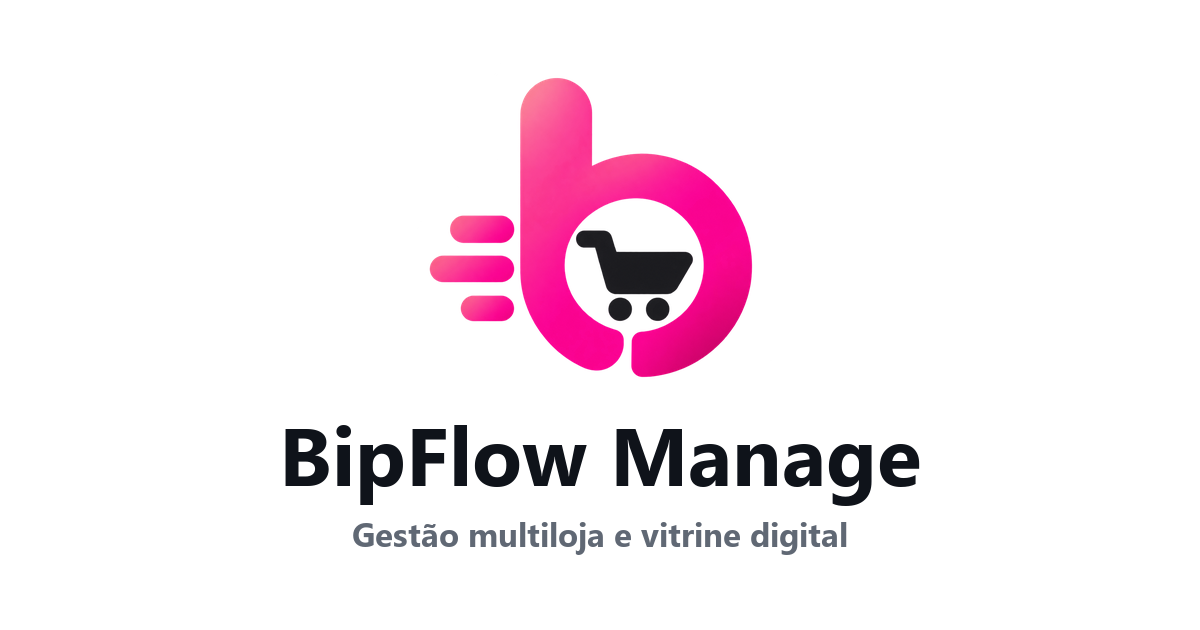
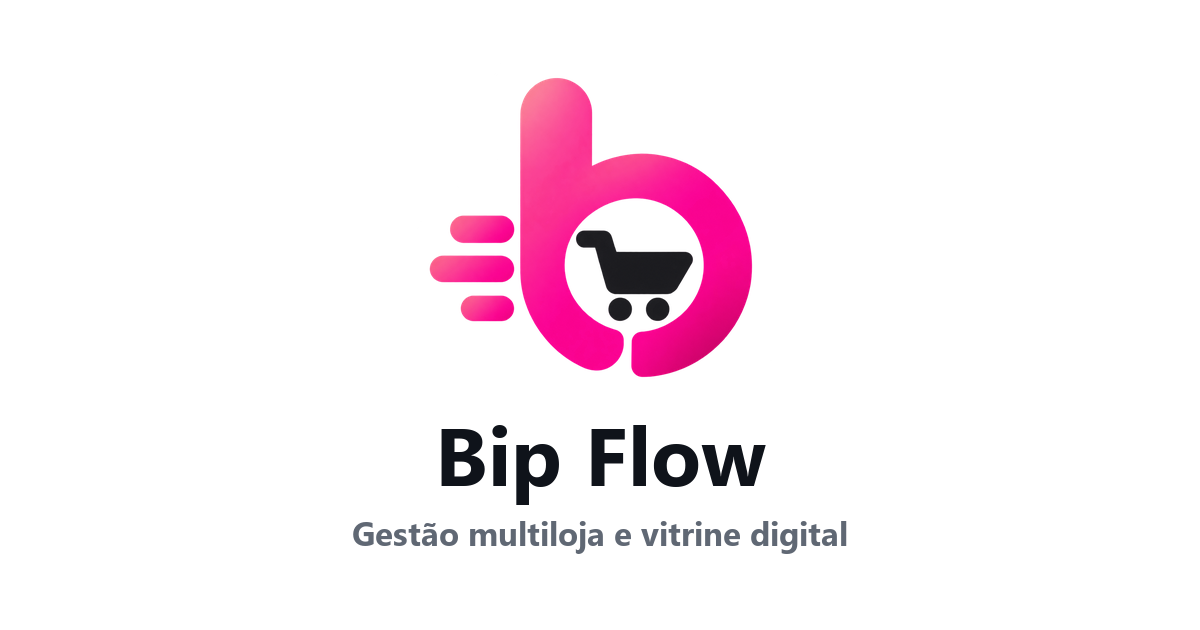
chore(brand): rename admin product identity to Bip Flow
The platform is "Bip Flow"; the retired "BipFlow Manage" wordmark is
replaced across every user-facing surface of the SaaS:

- index.html <title>, Open Graph / Twitter card, application-name and
  apple-mobile-web-app-title
- router document.title (dynamic tab title + fallback)
- auth shell wordmark + aria-label, login / reset CTAs, customer-login
  wordmark, 404 / 500 brand lines
- site.webmanifest name / short_name
- brand OG share card: WORDMARK -> "Bip Flow" and bipflow-og.png
  regenerated (symbol, gradient and geometry untouched)

Canonical URLs still point at bipflow-manage.pages.dev; the URL cutover
lands separately once bipflow.pages.dev is live. Tenant branding
(Boutique Fitness et al.) is untouched — a tenant is never the platform
brand. social-metadata / AuthComponents / auth-ui-states specs updated,
plus a regression guard that the crawler-visible <head> never carries
"Manage".

diff --git a/bipflow-frontend/index.html b/bipflow-frontend/index.html
@@ -4,14 +4,14 @@
     <meta charset="UTF-8">
     <meta name="viewport" content="width=device-width, initial-scale=1.0, viewport-fit=cover">
 
-    <title>BipFlow Manage — Gestão multiloja e vitrine digital</title>
+    <title>Bip Flow — Gestão multiloja e vitrine digital</title>
     <meta name="description" content="Plataforma SaaS multi-tenant para gestão de lojas, produtos, estoque e pedidos, com vitrine digital, PDV, checkout por WhatsApp e segurança avançada.">
     <link rel="canonical" href="https://bipflow-manage.pages.dev/">
 
     <!-- Open Graph / LinkedIn / Facebook -->
     <meta property="og:type" content="website">
-    <meta property="og:site_name" content="BipFlow Manage">
-    <meta property="og:title" content="BipFlow Manage — Gestão multiloja e vitrine digital">
+    <meta property="og:site_name" content="Bip Flow">
+    <meta property="og:title" content="Bip Flow — Gestão multiloja e vitrine digital">
     <meta property="og:description" content="Plataforma SaaS multi-tenant para gestão de lojas, produtos, estoque e pedidos, com vitrine digital, PDV, checkout por WhatsApp e segurança avançada.">
     <meta property="og:url" content="https://bipflow-manage.pages.dev/">
     <meta property="og:image" content="https://bipflow-manage.pages.dev/brand/bipflow-og.png">
@@ -19,15 +19,15 @@
     <meta property="og:image:type" content="image/png">
     <meta property="og:image:width" content="1200">
     <meta property="og:image:height" content="630">
-    <meta property="og:image:alt" content="BipFlow Manage — gestão multiloja e vitrine digital">
+    <meta property="og:image:alt" content="Bip Flow — gestão multiloja e vitrine digital">
     <meta property="og:locale" content="pt_BR">
 
     <!-- Twitter / X -->
     <meta name="twitter:card" content="summary_large_image">
-    <meta name="twitter:title" content="BipFlow Manage — Gestão multiloja e vitrine digital">
+    <meta name="twitter:title" content="Bip Flow — Gestão multiloja e vitrine digital">
     <meta name="twitter:description" content="Plataforma SaaS multi-tenant para gestão de lojas, produtos, estoque e pedidos, com vitrine digital, PDV, checkout por WhatsApp e segurança avançada.">
     <meta name="twitter:image" content="https://bipflow-manage.pages.dev/brand/bipflow-og.png">
-    <meta name="twitter:image:alt" content="BipFlow Manage — gestão multiloja e vitrine digital">
+    <meta name="twitter:image:alt" content="Bip Flow — gestão multiloja e vitrine digital">
 
     <!-- Official BipFlow icons -->
     <link rel="icon" href="/favicon.ico" sizes="any">
@@ -36,8 +36,8 @@
     <link rel="apple-touch-icon" sizes="180x180" href="/brand/apple-touch-icon.png">
     <link rel="manifest" href="/site.webmanifest">
     <meta name="theme-color" content="#FB0190">
-    <meta name="application-name" content="BipFlow Manage">
-    <meta name="apple-mobile-web-app-title" content="BipFlow Manage">
+    <meta name="application-name" content="Bip Flow">
+    <meta name="apple-mobile-web-app-title" content="Bip Flow">
 
     <link rel="preconnect" href="https://fonts.googleapis.com">
     <link rel="preconnect" href="https://fonts.gstatic.com" crossorigin>

diff --git a/bipflow-frontend/src/__tests__/social-metadata.spec.ts b/bipflow-frontend/src/__tests__/social-metadata.spec.ts
@@ -44,10 +44,16 @@ function link(html: string, rel: string, extra = ''): string | null {
 }
 
 describe('social metadata — crawler-visible <head> in index.html', () => {
-  it('has a BipFlow Manage title and description (no stale store name)', () => {
+  it('has a Bip Flow title and description (platform brand, no stale store name, no "Manage")', () => {
     const title = indexHtml.match(/<title>([^<]*)<\/title>/i)?.[1] ?? ''
-    expect(title).toBe('BipFlow Manage — Gestão multiloja e vitrine digital')
+    expect(title).toBe('Bip Flow — Gestão multiloja e vitrine digital')
+    // Boutique Fitness is a tenant, never the platform brand in the global <head>.
     expect(indexHtml).not.toMatch(/KN Boutique|Boutique Fitness/)
+    // The product is "Bip Flow" now — the retired "BipFlow Manage" / "… Manage"
+    // wordmark must not survive anywhere in the crawler-visible document.
+    const head = indexHtml.slice(0, indexHtml.indexOf('</head>'))
+    expect(head).not.toMatch(/BipFlow Manage|Bip Flow Manage|\bManage\b/)
+    expect(head).toMatch(/Bip Flow/)
     expect(meta(indexHtml, 'name', 'description')).toBe(SOCIAL_DESCRIPTION)
   })
 
@@ -74,8 +80,8 @@ describe('social metadata — crawler-visible <head> in index.html', () => {
   it('declares every required Open Graph tag with absolute URLs', () => {
     const og = {
       'og:type': 'website',
-      'og:site_name': 'BipFlow Manage',
-      'og:title': 'BipFlow Manage — Gestão multiloja e vitrine digital',
+      'og:site_name': 'Bip Flow',
+      'og:title': 'Bip Flow — Gestão multiloja e vitrine digital',
       'og:description': SOCIAL_DESCRIPTION,
       'og:url': `${CANONICAL_ORIGIN}/`,
       'og:image': `${CANONICAL_ORIGIN}/brand/bipflow-og.png`,
@@ -152,9 +158,9 @@ describe('social metadata — asset files exist and match their declarations', (
     expect(pngSize(p)).toEqual({ width: n, height: n })
   })
 
-  it('site.webmanifest is valid JSON naming BipFlow with 192 & 512 icons', () => {
+  it('site.webmanifest is valid JSON naming Bip Flow with 192 & 512 icons', () => {
     const m = JSON.parse(readFileSync(resolve(PUBLIC, 'site.webmanifest'), 'utf8'))
-    expect(m.name).toMatch(/BipFlow/)
+    expect(m.name).toMatch(/Bip ?Flow/)
     const sizes = (m.icons ?? []).map((i: { sizes: string }) => i.sizes)
     expect(sizes).toEqual(expect.arrayContaining(['192x192', '512x512']))
     expect(JSON.stringify(m)).not.toMatch(/localhost|127\.0\.0\.1/)

diff --git a/bipflow-frontend/cypress/e2e/auth/auth-ui-states.cy.ts b/bipflow-frontend/cypress/e2e/auth/auth-ui-states.cy.ts
@@ -5,14 +5,14 @@ describe('Authentication UI states', () => {
     cy.viewport(390, 844)
     cy.visit('/login')
 
-    cy.get('[aria-label="Apresentação do BipFlow Manage"]').should('not.be.visible')
+    cy.get('[aria-label="Apresentação do Bip Flow"]').should('not.be.visible')
     cy.get('[data-cy="auth-brand-mark"]:visible')
       .should('have.length', 1)
       .find('.auth-brand-mark__speed-line')
       .should('have.length', 3)
     cy.contains('Entre na sua conta').should('be.visible')
     cy.contains('Use suas credenciais administrativas para continuar.').should('be.visible')
-    cy.contains('button', 'Entrar no BipFlow').click()
+    cy.contains('button', 'Entrar no Bip Flow').click()
 
     cy.contains('Informe seu email administrativo.').should('be.visible')
     cy.contains('Informe sua senha.').should('be.visible')
@@ -31,7 +31,7 @@ describe('Authentication UI states', () => {
 
     cy.get('#admin-email').should('have.css', 'font-size', '16px')
     cy.get('#admin-password').should('have.css', 'font-size', '16px')
-    cy.contains('button', 'Entrar no BipFlow').then(($button) => {
+    cy.contains('button', 'Entrar no Bip Flow').then(($button) => {
       expect($button[0].getBoundingClientRect().height, 'primary action height').to.be.at.least(44)
     })
     cy.document().then((doc) => {
@@ -63,7 +63,7 @@ describe('Authentication UI states', () => {
     cy.visit('/login')
     cy.get('#admin-email').type('admin@example.com')
     cy.get('#admin-password').type('senha-invalida')
-    cy.contains('button', 'Entrar no BipFlow').click()
+    cy.contains('button', 'Entrar no Bip Flow').click()
 
     cy.wait('@loginRequest')
     cy.get('[data-cy="login-error"]')

diff --git a/bipflow-frontend/src/components/auth/AuthShell.vue b/bipflow-frontend/src/components/auth/AuthShell.vue
@@ -14,7 +14,7 @@ const year = new Date().getFullYear()
   <main class="grid min-h-screen min-h-dvh bg-bip-soft lg:grid-cols-[minmax(0,1.08fr)_minmax(30rem,0.92fr)]">
     <section
       class="auth-brand-panel relative hidden min-h-screen min-h-dvh flex-col justify-between overflow-hidden px-12 py-10 lg:flex xl:px-16 xl:py-12"
-      aria-label="Apresentação do BipFlow Manage"
+      aria-label="Apresentação do Bip Flow"
     >
       <div class="auth-brand-grid" aria-hidden="true" />
       <div class="auth-brand-orbit auth-brand-orbit--large" aria-hidden="true" />
@@ -37,7 +37,7 @@ const year = new Date().getFullYear()
         <span class="auth-logo-frame auth-logo-frame--dark">
           <AuthBrandMark />
         </span>
-        <span class="auth-wordmark auth-wordmark--dark">BipFlow Manage</span>
+        <span class="auth-wordmark auth-wordmark--dark">Bip Flow</span>
       </div>
 
       <div class="relative z-10 max-w-xl pb-8">
@@ -57,7 +57,7 @@ const year = new Date().getFullYear()
       </div>
 
       <div class="relative z-10 flex items-center justify-between gap-4 border-t border-white/10 pt-5 text-xs text-zinc-500">
-        <p>&copy; {{ year }} BipFlow</p>
+        <p>&copy; {{ year }} Bip Flow</p>
         <p>Ambiente protegido e monitorado</p>
       </div>
     </section>
@@ -68,7 +68,7 @@ const year = new Date().getFullYear()
           <span class="auth-logo-frame auth-logo-frame--light">
             <AuthBrandMark />
           </span>
-          <span class="auth-wordmark auth-wordmark--light">BipFlow Manage</span>
+          <span class="auth-wordmark auth-wordmark--light">Bip Flow</span>
         </div>
 
         <slot />

diff --git a/bipflow-frontend/src/views/customer/CustomerLoginView.vue b/bipflow-frontend/src/views/customer/CustomerLoginView.vue
@@ -12,7 +12,7 @@ import { setSelectedStoreSlug } from '@/services/store-scope'
 import { isAxiosError } from '@/types/errors'
 
 // Customer authentication intentionally keeps its storefront language and
-// destination separate from the administrative BipFlow Manage login.
+// destination separate from the administrative Bip Flow login.
 const route = useRoute()
 const router = useRouter()
 const routeStoreSlug = typeof route.params?.storeSlug === 'string' ? route.params.storeSlug : ''
@@ -115,7 +115,7 @@ async function handleSubmit(): Promise<void> {
           <span class="flex h-12 w-12 items-center justify-center rounded-2xl border border-[#e5e7eb] bg-white p-1 shadow-sm">
             <img src="/brand/bipflow-logo-auth.webp" alt="" class="h-full w-full object-contain" aria-hidden="true" />
           </span>
-          <span class="text-lg font-extrabold tracking-[-0.045em] text-[#05050a]">BipFlow</span>
+          <span class="text-lg font-extrabold tracking-[-0.045em] text-[#05050a]">Bip Flow</span>
         </div>
 
         <header class="mb-7 text-center">

diff --git a/bipflow-frontend/src/views/auth/ResetPasswordView.vue b/bipflow-frontend/src/views/auth/ResetPasswordView.vue
@@ -114,7 +114,7 @@ const handlePasswordResetConfirm = async () => {
   <AuthShell
     eyebrow="Nova senha"
     title="Defina uma senha forte e exclusiva."
-    description="Uma senha exclusiva para o BipFlow Manage protege o acesso administrativo da sua loja."
+    description="Uma senha exclusiva para o Bip Flow protege o acesso administrativo da sua loja."
   >
     <header class="mb-7">
       <p class="mb-2 text-[11px] font-extrabold uppercase tracking-[0.22em] text-[#d60073]">Proteção da conta</p>
@@ -131,7 +131,7 @@ const handlePasswordResetConfirm = async () => {
           :to="{ name: AuthRouteNames.Login }"
           class="inline-flex min-h-11 w-full items-center justify-center rounded-lg bg-[#111827] px-4 font-semibold text-white transition-colors hover:bg-bip-black focus-visible:ring-2 focus-visible:ring-bip-black focus-visible:ring-offset-2"
         >
-          Entrar no BipFlow
+          Entrar no Bip Flow
         </RouterLink>
       </template>
     </AuthAlert>

diff --git a/bipflow-frontend/src/views/errors/ServerErrorView.vue b/bipflow-frontend/src/views/errors/ServerErrorView.vue
@@ -44,7 +44,7 @@ const reportIssue = () => {
         </h1>
         
         <h2 class="text-2xl font-bold text-zinc-300 tracking-tight">
-          BipFlow Hub Connection Failure
+          Bip Flow Hub Connection Failure
         </h2>
         
         <p class="text-zinc-500 text-sm max-w-md mx-auto leading-relaxed">
@@ -62,7 +62,7 @@ const reportIssue = () => {
         <p class="text-[10px] text-zinc-600 leading-relaxed">
           <span class="text-red-800">ERROR_CODE:</span> 0xINTERNAL_HUB_TIMEOUT<br>
           <span class="text-zinc-700">TRACE_ID:</span> {{ Math.random().toString(36).substring(7).toUpperCase() }}<br>
-          <span class="text-zinc-700">LOCATION:</span> BipFlow-Manage-Core
+          <span class="text-zinc-700">LOCATION:</span> BipFlow-Core
         </p>
       </section>
 

diff --git a/bipflow-frontend/src/router/index.ts b/bipflow-frontend/src/router/index.ts
@@ -152,12 +152,12 @@ router.afterEach((to) => {
   sessionStorage.removeItem(CHUNK_RELOAD_STORAGE_KEY)
 
   // Define o título da página dinamicamente. O <title> estático do index.html
-  // ("BipFlow Manage — Gestão multiloja e vitrine digital") é o que os crawlers
+  // ("Bip Flow — Gestão multiloja e vitrine digital") é o que os crawlers
   // sem JS enxergam; isto ajusta apenas a aba do navegador após a montagem.
   const title = to.meta.title as string | undefined
   document.title = title
-    ? `${title} | BipFlow Manage`
-    : 'BipFlow Manage — Gestão multiloja e vitrine digital'
+    ? `${title} | Bip Flow`
+    : 'Bip Flow — Gestão multiloja e vitrine digital'
 })
 
 export default router

diff --git a/bipflow-frontend/src/components/auth/__tests__/AuthComponents.spec.ts b/bipflow-frontend/src/components/auth/__tests__/AuthComponents.spec.ts
@@ -93,7 +93,7 @@ describe('auth components', () => {
   it('blocks repeated submit while loading and keeps a clear label', () => {
     const wrapper = mount(AuthSubmitButton, {
       props: { loading: true, loadingLabel: 'Entrando...' },
-      slots: { default: 'Entrar no BipFlow' },
+      slots: { default: 'Entrar no Bip Flow' },
     })
 
     expect(wrapper.get('button').attributes('disabled')).toBeDefined()

diff --git a/bipflow-frontend/src/views/errors/NotFoundView.vue b/bipflow-frontend/src/views/errors/NotFoundView.vue
@@ -1,7 +1,7 @@
 <template>
   <div class="flex flex-col items-center justify-center min-h-screen">
     <h1 class="text-4xl font-bold">404</h1>
-    <p>Página não encontrada no BipFlow.</p>
+    <p>Página não encontrada no Bip Flow.</p>
     <router-link to="/" class="mt-4 text-blue-500 underline">Voltar ao Início</router-link>
   </div>
 </template>

diff --git a/bipflow-frontend/src/views/auth/LoginView.vue b/bipflow-frontend/src/views/auth/LoginView.vue
@@ -376,7 +376,7 @@ const handleBackToLogin = () => {
 
       <div class="pt-3">
         <AuthSubmitButton :disabled="!canSubmit" :loading="isLoading" loading-label="Entrando...">
-          Entrar no BipFlow
+          Entrar no Bip Flow
         </AuthSubmitButton>
       </div>
     </form>

diff --git a/bipflow-frontend/scripts/build-brand-assets.py b/bipflow-frontend/scripts/build-brand-assets.py
@@ -26,7 +26,7 @@ WHITE = (255, 255, 255, 255)
 INK = (15, 19, 26, 255)          # matches the dark cart, for the wordmark
 BRAND_PINK = (251, 1, 144, 255)  # #FB0190 -- sampled from the symbol body; theme-color
 
-WORDMARK = "BipFlow Manage"
+WORDMARK = "Bip Flow"
 
 
 def load_source() -> Image.Image:
